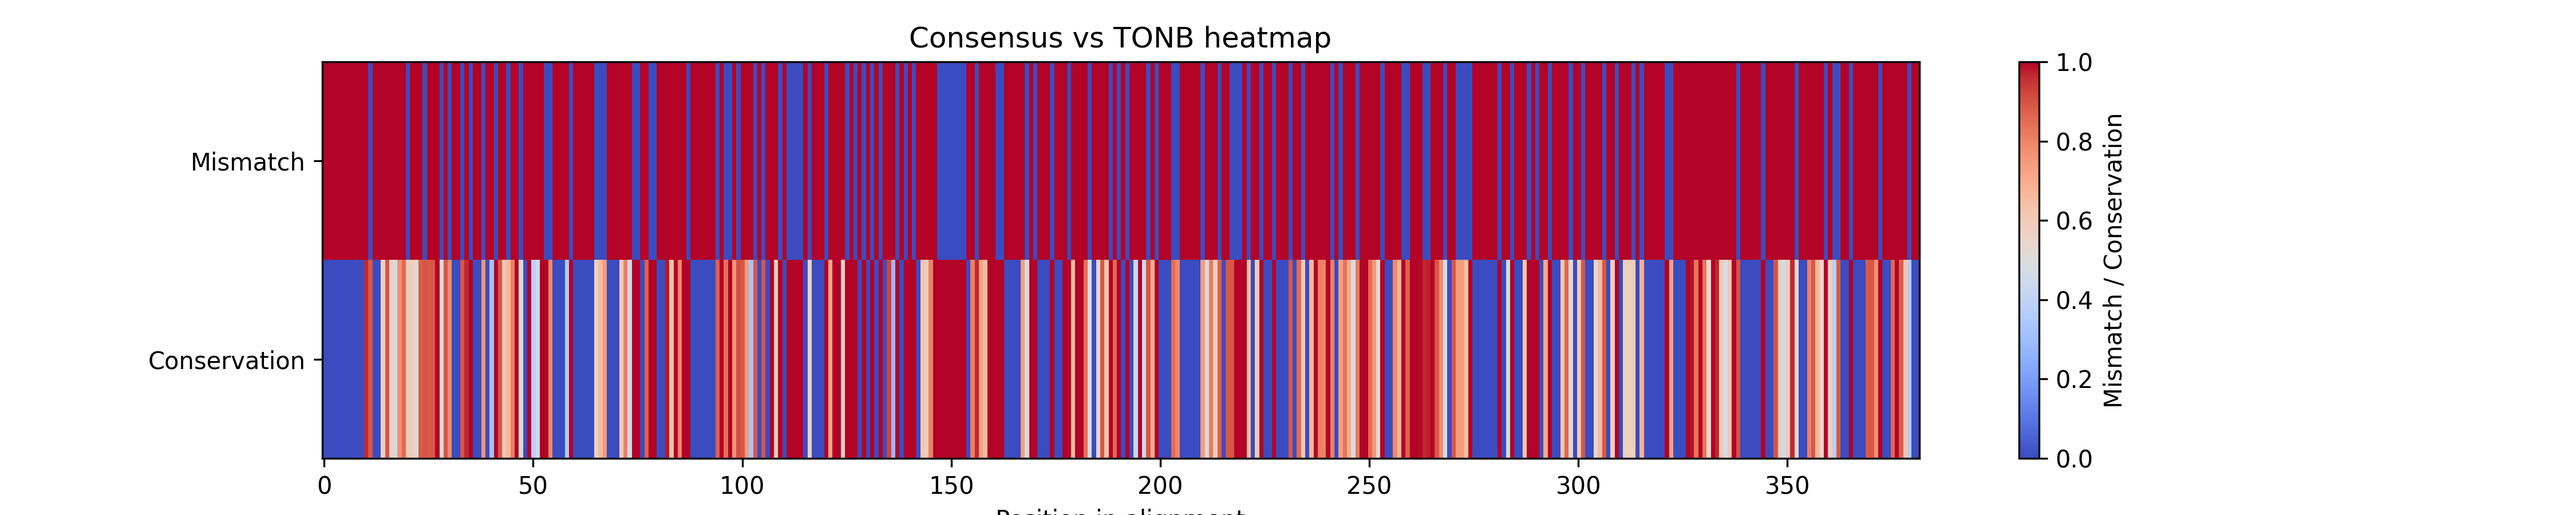
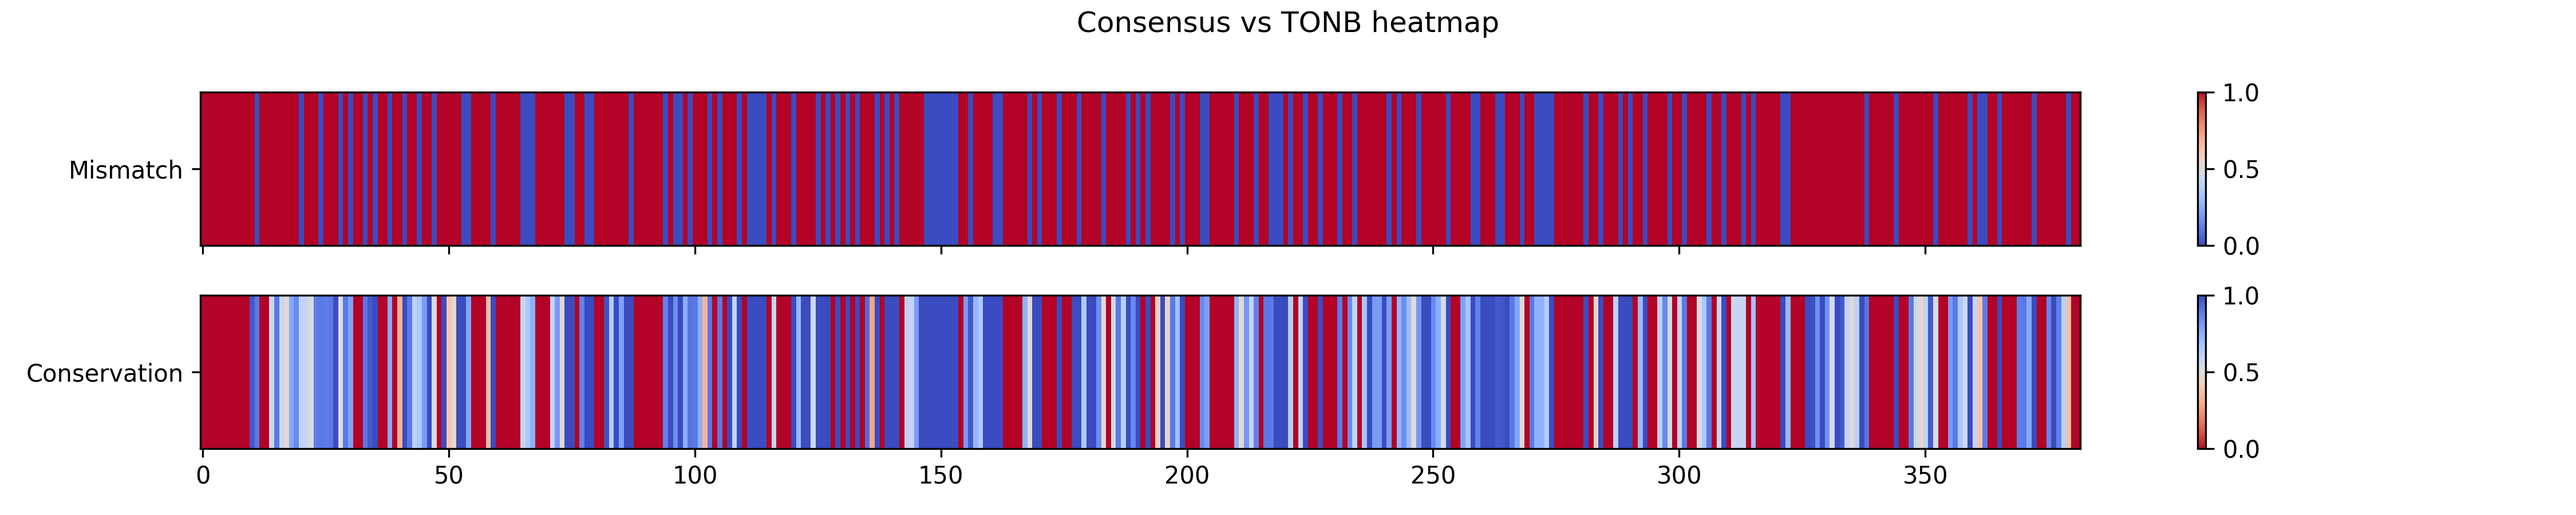
miliorata la visualization del grafico

diff --git a/markov/analysis2.py b/markov/analysis2.py
@@ -87,12 +87,34 @@ aligned_conservation = np.array(aligned_conservation)
 heatmap_matrix = np.vstack([mismatch, aligned_conservation])
 
 # Plot
-plt.figure(figsize=(15,3))
-plt.imshow(heatmap_matrix, aspect='auto', cmap='coolwarm', interpolation='nearest')
+fig, ax = plt.subplots(2, 1, figsize=(15,3), sharex=True)
 
-plt.yticks([0,1], ['Mismatch', 'Conservation'])
-plt.xlabel("Position in alignment")
-plt.colorbar(label="Mismatch / Conservation")
-plt.title("Consensus vs TONB heatmap")
+im0 = ax[0].imshow(
+    mismatch[np.newaxis, :],
+    aspect='auto',
+    cmap='coolwarm',
+    vmin=0, vmax=1
+)
+
+ax[0].set_yticks([0])
+ax[0].set_yticklabels(['Mismatch'])
+
+fig.colorbar(im0, ax=ax[0])   # <-- colorbar SOLO mismatch
+
+
+im1 = ax[1].imshow(
+    aligned_conservation[np.newaxis, :],
+    aspect='auto',
+    cmap='coolwarm_r',   # meglio invertire la cmap invece dei dati
+    vmin=0, vmax=1
+)
+
+ax[1].set_yticks([0])
+ax[1].set_yticklabels(['Conservation'])
+
+fig.colorbar(im1, ax=ax[1])   # <-- colorbar SOLO conservation
+
+plt.suptitle("Consensus vs TONB heatmap")  # meglio di plt.title con subplots
+plt.tight_layout()
 plt.savefig("tonb_vs_consensus_heatmap.png", dpi=300)
 plt.show()
